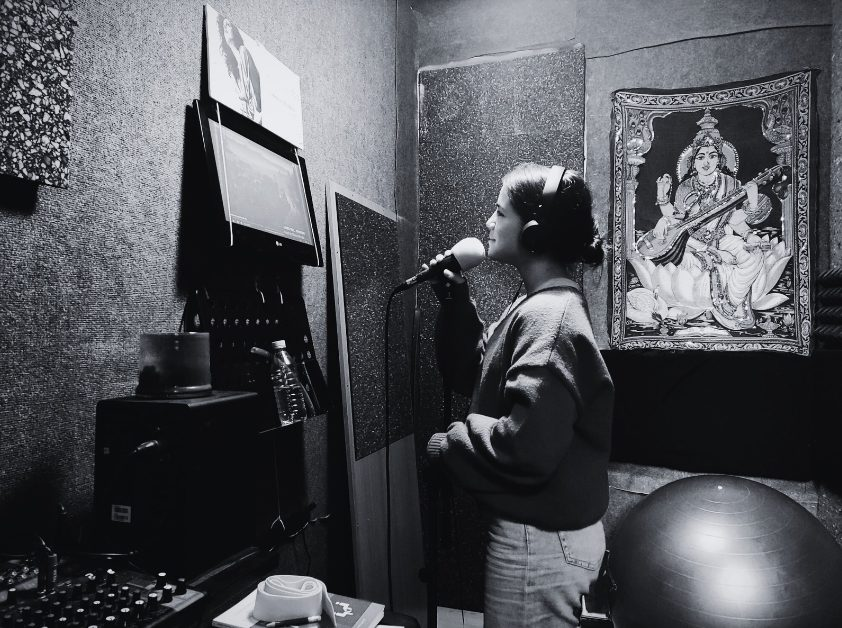
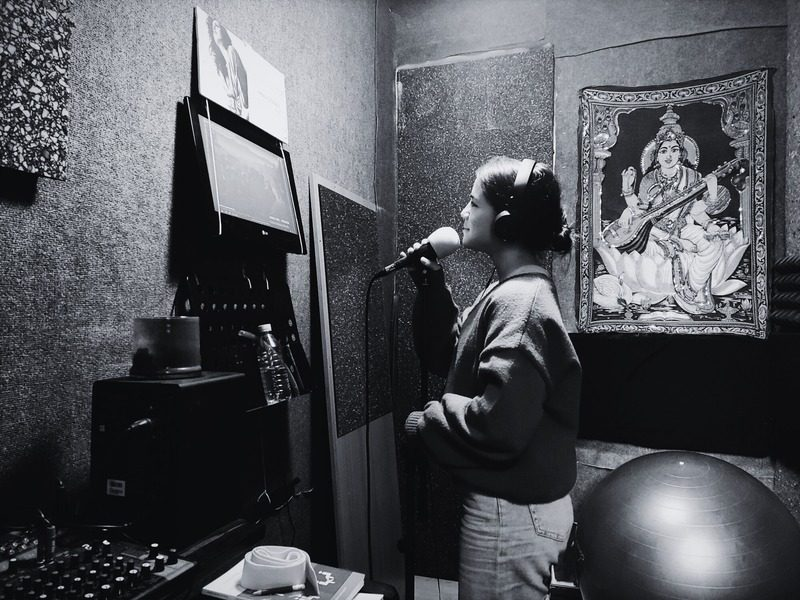
Fotos originales sin recortes, vídeo de YouTube y enlace destacado al canal
Claude-Session: https://claude.ai/code/session_019MCPdzBCt6rfzAubgXRcPZ

diff --git a/index.html b/index.html
@@ -145,7 +145,7 @@ header.open .menu-btn .bars::after{top:0;transform:rotate(-45deg)}
 
 /* Hero */
 .hero{position:relative;min-height:100vh;min-height:100svh;display:flex;align-items:flex-end;padding:0;background:var(--night);color:var(--white);overflow:hidden}
-.hero-bg{position:absolute;inset:0;width:100%;height:100%;object-fit:cover;object-position:64% 30%;filter:sepia(.25)}
+.hero-bg{position:absolute;inset:0;width:100%;height:100%;object-fit:cover;object-position:100% 30%;filter:sepia(.25)}
 .hero::after{content:"";position:absolute;inset:0;background:linear-gradient(90deg,rgba(31,23,20,.92) 0%,rgba(31,23,20,.72) 34%,rgba(31,23,20,0) 60%),linear-gradient(0deg,rgba(31,23,20,.9) 0%,rgba(31,23,20,0) 34%),linear-gradient(180deg,rgba(31,23,20,.6) 0%,rgba(31,23,20,0) 18%)}
 .hero .wrap{position:relative;z-index:1;width:100%;padding-top:140px;padding-bottom:88px}
 .hero-text{max-width:580px}
@@ -157,7 +157,7 @@ header.open .menu-btn .bars::after{top:0;transform:rotate(-45deg)}
 .facts li::before{content:"✦";color:var(--gold);margin-right:8px}
 @media (max-width:760px){
   .hero{display:block;min-height:0}
-  .hero-bg{position:relative;height:58vh;min-height:340px;object-position:60% 22%;-webkit-mask-image:linear-gradient(180deg,#000 55%,transparent 100%);mask-image:linear-gradient(180deg,#000 55%,transparent 100%)}
+  .hero-bg{position:relative;height:58vh;min-height:340px;object-position:74% 22%;-webkit-mask-image:linear-gradient(180deg,#000 55%,transparent 100%);mask-image:linear-gradient(180deg,#000 55%,transparent 100%)}
   .hero::after{background:linear-gradient(180deg,rgba(31,23,20,.65) 0%,rgba(31,23,20,0) 22%)}
   .hero .wrap{margin-top:-56px;padding-top:0;padding-bottom:64px}
   .hero-ctas .btn{flex:1 1 100%}
@@ -183,6 +183,12 @@ header.open .menu-btn .bars::after{top:0;transform:rotate(-45deg)}
 
 /* About */
 .about{background:var(--cream)}
+.listen{background:var(--night)}
+.listen .section-head{text-align:center;margin-inline:auto}
+.listen .lead{margin-inline:auto}
+.video{position:relative;max-width:960px;margin:0 auto;aspect-ratio:16/9;border-radius:var(--radius);overflow:hidden;background:#000;box-shadow:0 24px 60px rgba(0,0,0,.35)}
+.video iframe{position:absolute;inset:0;width:100%;height:100%;border:0}
+.listen-cta{text-align:center;margin:36px 0 0}
 .about-grid{display:grid;grid-template-columns:.85fr 1.15fr;gap:72px;align-items:center}
 .arch{border-radius:var(--radius);overflow:hidden;aspect-ratio:702/800;background:var(--night);max-width:440px}
 .arch img{width:100%;height:100%;object-fit:cover}
@@ -210,7 +216,7 @@ header.open .menu-btn .bars::after{top:0;transform:rotate(-45deg)}
 /* Concerts */
 .concerts{padding-bottom:0;background:var(--cream)}
 .community{display:grid;grid-template-columns:1.1fr .9fr;gap:56px;align-items:center;margin-bottom:72px}
-.community .group{width:100%;border-radius:50%;aspect-ratio:678/413;object-fit:cover}
+.community .group{width:100%;height:auto;border-radius:var(--radius)}
 @media (max-width:860px){.community{grid-template-columns:1fr;gap:28px;margin-bottom:48px}}
 .gallery{display:grid;grid-template-columns:1.2fr 1fr 1fr 1.2fr;grid-auto-rows:300px;gap:8px;margin:0;padding:0 8px}
 .gallery figure{border-radius:14px}
@@ -231,7 +237,7 @@ header.open .menu-btn .bars::after{top:0;transform:rotate(-45deg)}
 
 /* FAQ */
 .faq-grid{display:grid;grid-template-columns:.75fr 1.25fr;gap:64px;align-items:start}
-.faq-photo{position:sticky;top:calc(var(--header) + 24px);border-radius:var(--radius);overflow:hidden;aspect-ratio:4/5}
+.faq-photo{position:sticky;top:calc(var(--header) + 24px);border-radius:var(--radius);overflow:hidden;aspect-ratio:1200/1088}
 .faq-photo img{width:100%;height:100%;object-fit:cover;object-position:46% 30%}
 @media (max-width:860px){.faq-grid{grid-template-columns:1fr;gap:0}.faq-photo{display:none}}
 .faq details{border-bottom:1px solid var(--line)}
@@ -250,7 +256,7 @@ header.open .menu-btn .bars::after{top:0;transform:rotate(-45deg)}
 .contact-list li{display:flex;align-items:center;gap:14px;min-height:48px;border-bottom:1px solid var(--line)}
 .contact-list svg{flex:none;color:var(--gold-ink)}
 .contact-list a{display:inline-flex;align-items:center;min-height:48px}
-.contact-photo{margin-top:36px;border-radius:50%;overflow:hidden;aspect-ratio:484/572;max-width:300px}
+.contact-photo{margin-top:36px;border-radius:var(--radius);overflow:hidden;aspect-ratio:1200/1518;max-width:300px}
 .contact-photo img{width:100%;height:100%;object-fit:cover}
 @media (max-width:900px){.contact-photo{display:none}}
 form{display:grid;gap:18px;background:var(--white);padding:32px;border-radius:var(--radius);border:1px solid var(--line)}
@@ -312,7 +318,7 @@ footer a{display:inline-flex;align-items:center;min-height:44px;color:var(--on-d
 <main id="main">
 
 <section class="hero" id="inicio" aria-labelledby="hero-h">
-  <img class="hero-bg" src="img/inma-hero.jpg" alt="Inma Gomes cantando con las manos alzadas" width="2200" height="1262" fetchpriority="high">
+  <img class="hero-bg" src="img/inma-hero.jpg" alt="Inma Gomes cantando con las manos alzadas" width="2600" height="1133" fetchpriority="high">
   <div class="wrap">
     <div class="hero-text">
       <p class="eyebrow">Inma Gomes · Vocal coach</p>
@@ -353,7 +359,7 @@ footer a{display:inline-flex;align-items:center;min-height:44px;color:var(--on-d
 
 <section class="about" id="sobre-mi" aria-labelledby="sobre-mi-h">
   <div class="wrap about-grid">
-    <div class="arch"><img src="img/inma-retrato.jpg" alt="Retrato de Inma Gomes sonriendo" width="702" height="800" loading="lazy"></div>
+    <div class="arch"><img src="img/inma-retrato.jpg" alt="Retrato de Inma Gomes sonriendo" width="1200" height="1368" loading="lazy"></div>
     <div>
       <p class="eyebrow">Quién soy</p>
       <h2 id="sobre-mi-h">Hola, soy Inma Gomes</h2>
@@ -365,6 +371,20 @@ footer a{display:inline-flex;align-items:center;min-height:44px;color:var(--on-d
         <li>Terapeuta Gestalt</li>
       </ul>
     </div>
+  </div>
+</section>
+
+<section class="listen dark" id="escuchar" aria-labelledby="escuchar-h">
+  <div class="wrap">
+    <div class="section-head">
+      <p class="eyebrow">En vídeo</p>
+      <h2 id="escuchar-h">Escucha a Inma</h2>
+      <p class="lead">La mejor forma de conocer a tu vocal coach es oírla cantar.</p>
+    </div>
+    <div class="video">
+      <iframe src="https://www.youtube-nocookie.com/embed/lQod-Xw2TwA?rel=0" title="Vídeo de Inma Gomes cantando" loading="lazy" allow="accelerometer; autoplay; clipboard-write; encrypted-media; gyroscope; picture-in-picture; web-share" referrerpolicy="strict-origin-when-cross-origin" allowfullscreen></iframe>
+    </div>
+    <p class="listen-cta"><a class="btn btn-light" href="https://www.youtube.com/@auladevoz" rel="noopener" target="_blank"><svg width="22" height="22" viewBox="0 0 24 24" aria-hidden="true" fill="currentColor"><path d="M23 7.2a3 3 0 0 0-2.1-2.1C19 4.6 12 4.6 12 4.6s-7 0-8.9.5A3 3 0 0 0 1 7.2 31 31 0 0 0 .5 12a31 31 0 0 0 .5 4.8 3 3 0 0 0 2.1 2.1c1.9.5 8.9.5 8.9.5s7 0 8.9-.5a3 3 0 0 0 2.1-2.1 31 31 0 0 0 .5-4.8 31 31 0 0 0-.5-4.8zM9.75 15.02V8.98L15.5 12l-5.75 3.02z"/></svg>Ver más vídeos en YouTube<span class="sr-only"> (se abre en una pestaña nueva)</span></a></p>
   </div>
 </section>
 
@@ -410,7 +430,7 @@ footer a{display:inline-flex;align-items:center;min-height:44px;color:var(--on-d
       <h2 id="conciertos-h">Conciertos de alumnos cada tres meses</h2>
     </div>
     <div class="community">
-      <img class="group" src="img/grupo-alumnos.jpg" alt="Inma con un grupo de alumnos sonriendo tras un concierto en Barcelona" width="678" height="413" loading="lazy">
+      <img class="group" src="img/grupo-alumnos.jpg" alt="Inma con un grupo de alumnos sonriendo tras un concierto en Barcelona" width="800" height="600" loading="lazy">
       <div>
         <p class="lead">Cada tres meses nos subimos juntos a un escenario de Barcelona. Es la mejor forma de ver cuánto has avanzado, perder el miedo al público y compartirlo con los compañeros.</p>
         <p>Muchos alumnos llevan años formándose conmigo. Más que una clase, es un grupo con el que da gusto cantar.</p>
@@ -418,11 +438,11 @@ footer a{display:inline-flex;align-items:center;min-height:44px;color:var(--on-d
     </div>
   </div>
   <div class="gallery">
-    <figure class="tall"><img src="img/concierto-1.jpg" alt="Alumna cantando en un concierto de alumnos" width="522" height="697" loading="lazy"></figure>
-    <figure class="wide"><img src="img/estudio.jpg" alt="Alumna grabando en el estudio con auriculares" width="842" height="628" loading="lazy"></figure>
-    <figure class="tall"><img src="img/concierto-3.jpg" alt="Alumna interpretando una canción en el escenario" width="508" height="684" loading="lazy"></figure>
-    <figure><img src="img/concierto-2.jpg" alt="Alumna cantando sentada en el escenario" width="522" height="697" loading="lazy"></figure>
-    <figure><img src="img/publico.jpg" alt="Público en un concierto de alumnos" width="642" height="613" loading="lazy"></figure>
+    <figure class="tall"><img src="img/concierto-1.jpg" alt="Alumna cantando en un concierto de alumnos" width="600" height="800" loading="lazy"></figure>
+    <figure class="wide"><img src="img/estudio.jpg" alt="Alumna grabando en el estudio con auriculares" width="800" height="600" loading="lazy"></figure>
+    <figure class="tall"><img src="img/concierto-3.jpg" alt="Alumna interpretando una canción en el escenario" width="600" height="800" loading="lazy"></figure>
+    <figure><img src="img/concierto-2.jpg" alt="Alumna cantando sentada en el escenario" width="600" height="800" loading="lazy"></figure>
+    <figure><img src="img/publico.jpg" alt="Público en un concierto de alumnos" width="800" height="754" loading="lazy"></figure>
   </div>
 </section>
 
@@ -442,7 +462,7 @@ footer a{display:inline-flex;align-items:center;min-height:44px;color:var(--on-d
 
 <section class="faq" id="preguntas" aria-labelledby="faq-h">
   <div class="wrap faq-grid">
-    <div class="faq-photo"><img src="img/inma-pared.jpg" alt="" width="796" height="493" loading="lazy"></div>
+    <div class="faq-photo"><img src="img/inma-pared.jpg" alt="" width="1200" height="1088" loading="lazy"></div>
     <div>
     <div class="section-head">
       <p class="eyebrow">Preguntas frecuentes</p>
@@ -472,8 +492,9 @@ footer a{display:inline-flex;align-items:center;min-height:44px;color:var(--on-d
         <li><svg width="20" height="20" viewBox="0 0 24 24" fill="none" stroke="currentColor" stroke-width="2" aria-hidden="true"><path d="M12 21s-7-6.2-7-11a7 7 0 0 1 14 0c0 4.8-7 11-7 11z"/><circle cx="12" cy="10" r="2.5"/></svg><span>Sants (Barcelona), a 5 min de la estación, y online</span></li>
         <li><svg width="20" height="20" viewBox="0 0 24 24" fill="none" stroke="currentColor" stroke-width="2" aria-hidden="true"><path d="M22 16.9v3a2 2 0 0 1-2.2 2 19.8 19.8 0 0 1-8.6-3.1 19.5 19.5 0 0 1-6-6A19.8 19.8 0 0 1 2.1 4.2 2 2 0 0 1 4.1 2h3a2 2 0 0 1 2 1.7c.1.9.4 1.8.7 2.7a2 2 0 0 1-.5 2.1L8 9.8a16 16 0 0 0 6 6l1.3-1.3a2 2 0 0 1 2.1-.4c.9.3 1.8.6 2.7.7a2 2 0 0 1 1.7 2z"/></svg><a href="tel:+34650236511"><span class="sr-only">Llamar al </span>650 236 511</a></li>
         <li><svg width="20" height="20" viewBox="0 0 24 24" fill="none" stroke="currentColor" stroke-width="2" aria-hidden="true"><rect x="3" y="5" width="18" height="14" rx="2"/><path d="m3 7 9 6 9-6"/></svg><a href="mailto:auladevoz@gmail.com"><span class="sr-only">Enviar un email a </span>auladevoz@gmail.com</a></li>
+        <li><svg width="20" height="20" viewBox="0 0 24 24" fill="none" stroke="currentColor" stroke-width="2" aria-hidden="true"><rect x="2" y="5" width="20" height="14" rx="4"/><path d="m10 9 5 3-5 3z"/></svg><a href="https://www.youtube.com/@auladevoz" rel="noopener" target="_blank">youtube.com/@auladevoz<span class="sr-only"> (se abre en una pestaña nueva)</span></a></li>
       </ul>
-      <div class="contact-photo"><img src="img/inma-sonrisa.jpg" alt="" width="484" height="572" loading="lazy"></div>
+      <div class="contact-photo"><img src="img/inma-sonrisa.jpg" alt="" width="1200" height="1518" loading="lazy"></div>
     </div>
 
     <form name="contacto" method="POST" data-netlify="true" netlify-honeypot="empresa" action="/gracias.html" novalidate aria-labelledby="form-h">
